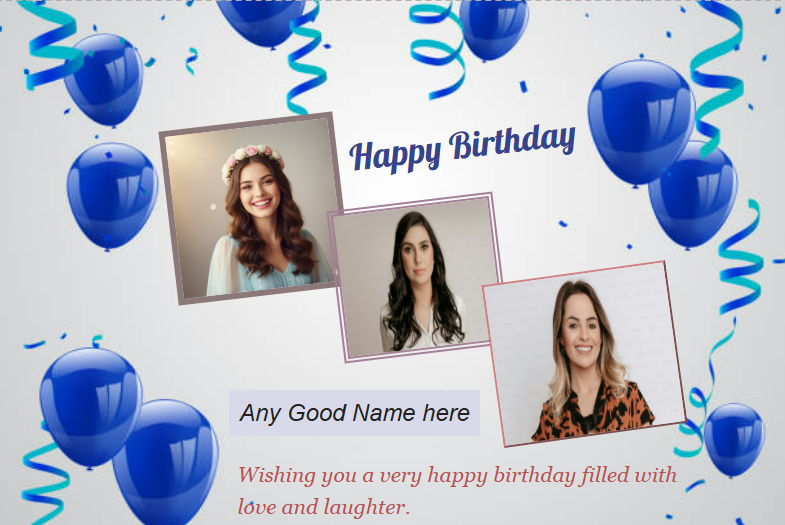
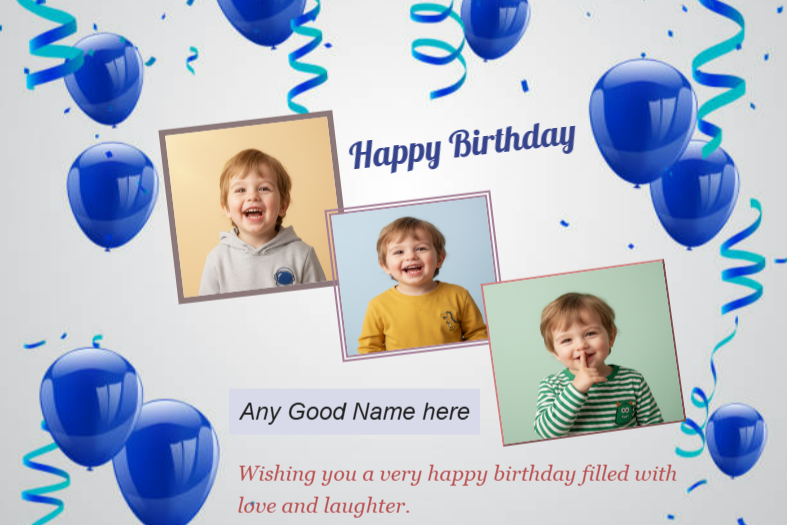
Changes

diff --git a/database/seeders/CardTemplatesTableSeeder.php b/database/seeders/CardTemplatesTableSeeder.php
@@ -156,19 +156,19 @@ class CardTemplatesTableSeeder extends Seeder
                         [
                             'type' => 'image',
                             'id' => 'img1',
-                            'src' => '/images/greeting-cards/element/g-user-6.png',
+                            'src' => '/images/greeting-cards/element/kid-2.png',
                             'css' => 'position: absolute;top: 91px;left: 128px;width: 131.986px;height: 131.986px;border: 5px solid rgb(140, 120, 120);cursor: move;z-index: 37;transform: rotate(-6.68235deg);',
                         ], 
                         [
                             'type' => 'image',
                             'id' => 'img2',
-                            'src' => '/images/greeting-cards/element/g-user-5.jpeg',
+                            'src' => '/images/greeting-cards/element/kid-1.png',
                             'css' => 'position: absolute;top: 151px;left: 253px;width: 126px;height: 115.623px;border: 5px double rgb(165, 126, 151);cursor: move;z-index: 38;transform: rotate(-6.90027deg);',
                         ], 
                         [
                             'type' => 'image',
                             'id' => 'img3',
-                            'src' => '/images/greeting-cards/element/g-user-4.jpeg',
+                            'src' => '/images/greeting-cards/element/kid-3.png',
                             'css' => 'position: absolute;top: 205px;left: 372px;width: 139.995px;height: 124.085px;border: 2px outset rgb(209, 128, 128);cursor: move;z-index: 21;transform: rotate(-7.87307deg);',
                         ],                        
                     ]
